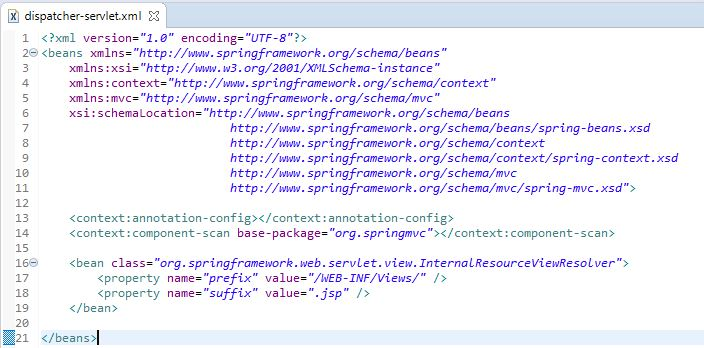
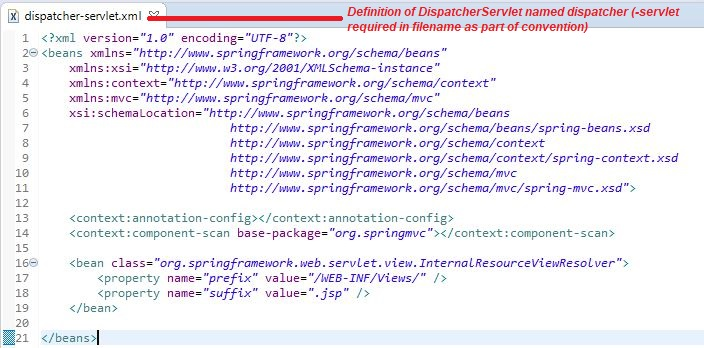
Update Architecure page
Update architecture  page (info and pictures)

diff --git a/project2web/WebContent/Architecture.html b/project2web/WebContent/Architecture.html
@@ -52,8 +52,8 @@ html,body,h1,h2,h3,h4,h5,h6 {font-family: "Roboto", sans-serif;}
       outgoing HTTP responses. In the case of Spring applications this front controller servlet is known as the DispatcherServlet.  
       The DispatcherServlet can be configured within a web application's startup method or in an xml file.
       </p>
-      <img src=".\Assests\Images\DispatcherServletDiagram.jpg" alt="DispatcherServlet diagram" width="609" height="329">
-      <p>Figure 1: Spring Application Architecture Diagram (retrieved from: https://www.tutorialspoint.com/spring/spring_web_mvc_framework.htm)
+      <img src=".\Assests\Images\DispatcherServletDiagram.jpg" alt="DispatcherServlet diagram" style="max-height: 100%; max-width: 100%; object-fit: contain;">
+      <p><b>Figure 1: </b>Spring Application Architecture Diagram (retrieved from: https://www.tutorialspoint.com/spring/spring_web_mvc_framework.htm)
       </p> 
       <p>Figure 1 pictured above shows the DispatcherServlet's central role within a Spring web application.
       In order to invoke the correct controller to handle a specific HTTP request the Dispatcher servlet interacts with
@@ -69,19 +69,34 @@ html,body,h1,h2,h3,h4,h5,h6 {font-family: "Roboto", sans-serif;}
       controller to the view to be rendered appropriately. The rendered view data will finally be passed back to the DispatcherServlet
       and then sent to the requesting web client as an HTTP response. 
       </p>
-      <img src=".\Assests\Images\DispatcherServletCode.jpg" alt="DispatcherServlet registration in web.xml file" width="711" height="172">
-      <br>
-      <img src=".\Assests\Images\DispatcherServletDefinition.jpg" alt="DispatcherServlet definition" width="704" height="348">
+      <div class="w3-row">
+      	<div class="w3-container w3-half">
+      		<img src=".\Assests\Images\DispatcherServletCode.jpg" alt="DispatcherServlet registration in web.xml file" style="max-height: 100%; max-width: 100%; object-fit: contain;">
+      		<p><b>Figure 2: </b>Registering a DispatcherServlet Named dispatcher for an Application</p>
+      	</div>
+      	<div class="w3-container w3-half">
+      		<img src=".\Assests\Images\DispatcherServletDefinition.jpg" alt="DispatcherServlet definition" style="max-height: 100%; max-width: 100%; object-fit: contain;">
+      		<p><b>Figure 3: </b>Defining the DispatcherServlet dispatcher</p>
+      	</div>
+      </div>	
     </div>
 
     <div class="w3-rest w3-padding-32">
       <h1 class="w3-text-teal">HandlerMapping</h1>
       <p>The HandlerMapping bean is responsible for mapping HTTP requests to the appropriate controllers that are designed to handle
-      them. Defining a HandlerMapping Bean can be done in a purely Java-based implementation as a Java class, or it can be done within a
-      project's web.xml file.   
+      them. Defining a HandlerMapping Bean can be done in a purely Java-based implementation as a Java class, or it can be done within a .xml
+      file that defines a DispatcherServlet.   
       </p>
-      <img src=".\Assests\Images\HandlerMapping.jpg" alt="HandlerMapping in DispatcherServlet" width="726" height="256">
-      <img src=".\Assests\Images\ControllerDirectory.jpg" alt="Controller directory structure" width="226" height="77">
+      <div class="w3-row">
+      	<div class="w3-container w3-third">
+      		<img src=".\Assests\Images\ControllerDirectory.jpg" alt="Controller directory structure" style="max-height: 100%; max-width: 100%; object-fit: contain;">
+      		<p><b>Figure 4: </b>Java Package Containing Controllers that DispatherServlet will Redirect to</p>
+      	</div>
+      	<div class="w3-container w3-twothird">
+      		<img src=".\Assests\Images\HandlerMapping.jpg" alt="HandlerMapping in DispatcherServlet" style="max-height: 100%; max-width: 100%; object-fit: contain;">
+      		<p><b>Figure 5: </b>HandlerMapping for dispatcher</p>
+      	</div>
+      </div>	
     </div>
     
     <div class="w3-rest w3-padding-32">
@@ -92,7 +107,8 @@ html,body,h1,h2,h3,h4,h5,h6 {font-family: "Roboto", sans-serif;}
       this main annotation other HTTP method-specific annotations can be utilized for certain controller methods such as the @GetMapping, 
       @PostMapping, and the @PutMapping annotations.           
       </p>
-      <img src=".\Assests\Images\Controller.jpg" alt="Controller example" width="678" height="287">
+      <img src=".\Assests\Images\Controller.jpg" alt="Controller example" style="max-height: 100%; max-width: 100%; object-fit: contain;">
+      <p><b>Figure 6: </b>Controller Example</p>
     </div>
     
     <div class="w3-rest w3-padding-32">
@@ -101,7 +117,8 @@ html,body,h1,h2,h3,h4,h5,h6 {font-family: "Roboto", sans-serif;}
       The ViewResolver bean has a number of different implementation options including the InternalResourceViewResolver bean that 
       can be used for applications with controller's that invoke JSP view pages whose filenames match directly with their logical names.     
       </p>
-      <img src=".\Assests\Images\ViewResolver.jpg" alt="ViewResolver in DispatcherServlet file" width="685" height="118">
+      <img src=".\Assests\Images\ViewResolver.jpg" alt="ViewResolver in DispatcherServlet file" style="max-height: 100%; max-width: 100%; object-fit: contain;">
+      <p><b>Figure 7: </b>ViewResolver Defined for the DispatcherServlet</p>
     </div>
     
      <div class="w3-rest w3-padding-32">
@@ -110,7 +127,8 @@ html,body,h1,h2,h3,h4,h5,h6 {font-family: "Roboto", sans-serif;}
       client's browser. Once completed, the rendered view is then passed to the DispatherServlet to be sent to the requesting web 
       client often in the form of an HTML page.       
       </p>
-      <img src=".\Assests\Images\ViewDirectory.jpg" alt="View directory structure" width="245" height="182">
+      <img src=".\Assests\Images\ViewDirectory.jpg" alt="View directory structure" style="max-height: 100%; max-width: 100%; object-fit: contain;">
+      <p><b>Figure 8: </b>Directory Containing View Pages that ViewResolver Maps to</p>
     </div>
 
   <footer id="myFooter">
